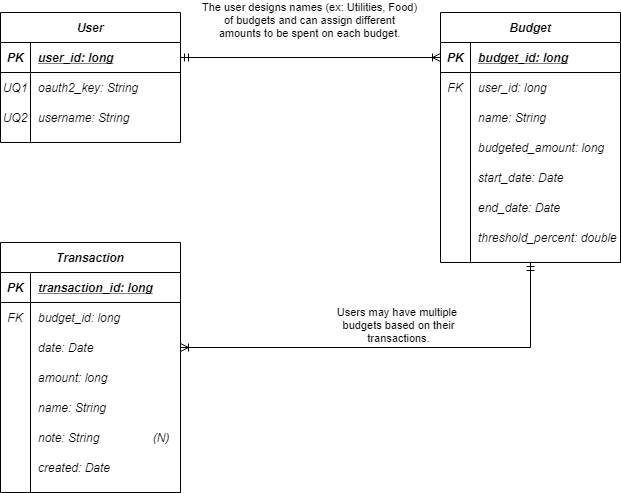
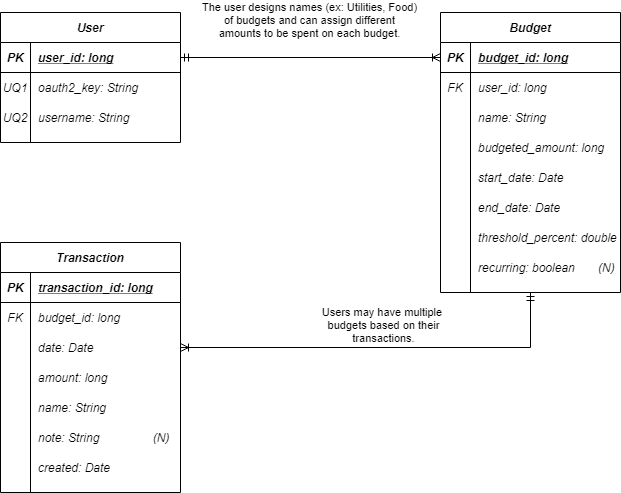
updated Budget entity with recurring (boolean)

Changed region(s): [[0.5201, 0.6085, 0.7343, 0.6998], [0.7649, 0.5172, 1.0, 0.6085]]

diff --git a/index.md b/index.md
@@ -2,15 +2,15 @@
 
 
 >Budget manager is a webservice accessed by a custom Android app that helps individuals manage and
-> track their spending on a daily 
+track their spending on a daily 
 or monthly basis. 
-Users will assign their expenditures in different categories for monthly bills and expenses such as
+Users will assign their expenditures in different categories (by assigning a name to each budget to 
+create those different categories) for monthly bills and expenses such as
 gas, groceries, dining out, miscellaneous, personal spending, savings, and any other categories of 
-their choosing for any duration of time. 
+their choosing for any duration of time, recurring or not. 
 Personal savings goals can also be created to establish better spending habits.
 The user will enter all transactions on a daily basis. 
 The due dates and any extra notes can be created for each bill for organizational purposes. 
-Budgets can be made for monthly recurring categories. 
 
 >The webservice will support the functionalities of persistent storage, tracking of transactions 
 >versus budget and will take care of the automatic computation of transactions into budget.
@@ -31,8 +31,8 @@ When accessing _saving goals_ the user will have a detailed overview of his curr
 
 
    * **A single mom**
-        > As a single mom with two teenagers, I need to balance our monthly budget and keep track 
-          of all our expenses to make sure our needs are met until the end of the month.
+        > As a single mom with two toddlers, I need to fit daycare and children's expenses 
+          in my monthly budget to make sure our needs are met until the end of the month.
     
    * **A graduate, starting his first job and who wants to live on his own**
         > As a recent grad, I just landed my first job and, I need to learn how to manage my 
@@ -40,7 +40,7 @@ When accessing _saving goals_ the user will have a detailed overview of his curr
         
    * **A foreigner who just moved to the US**
         > As a new arrival in the United States, I need to learn how to compare my expenditures to
-          my budget in order to get a better grasp of the local currency and cost of living.
+          my budget, so I can pay my bills and still send my family $200 each month.
                                                   
 
 ## External services/sources
